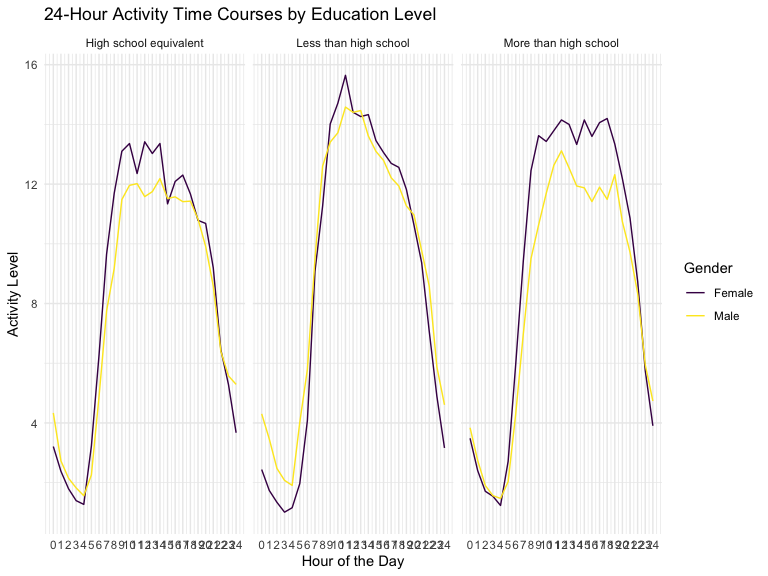
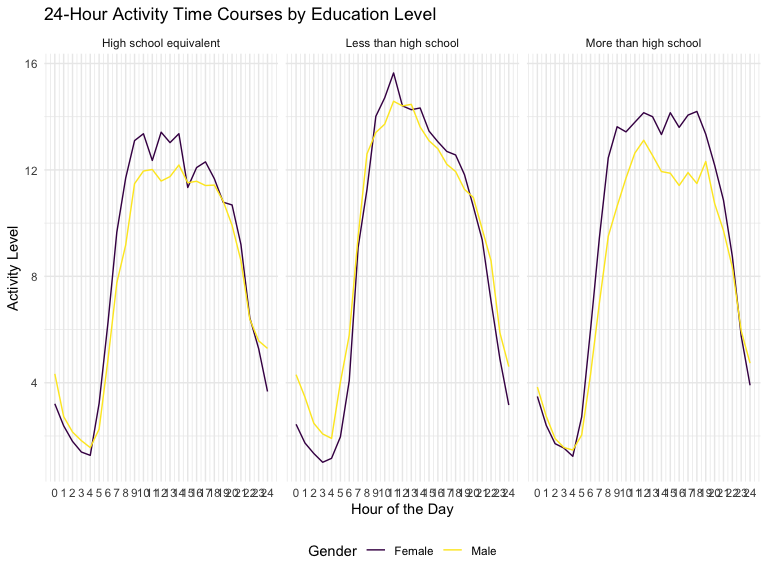
Trying to fix the hour label x axis on the last activity_plot to not have overlap

diff --git a/p8105_hw3_vsm2118.md b/p8105_hw3_vsm2118.md
@@ -504,7 +504,8 @@ activity_plot <- hourly_data %>%
        y = "Activity Level",
        color = "Gender") +
   scale_x_continuous(breaks = 0:24) +  # Set breaks for 0 to 24 (military time)
-  theme_minimal() 
+  theme_minimal() +
+  theme(legend.position = "bottom")
 
 activity_plot
 ```
